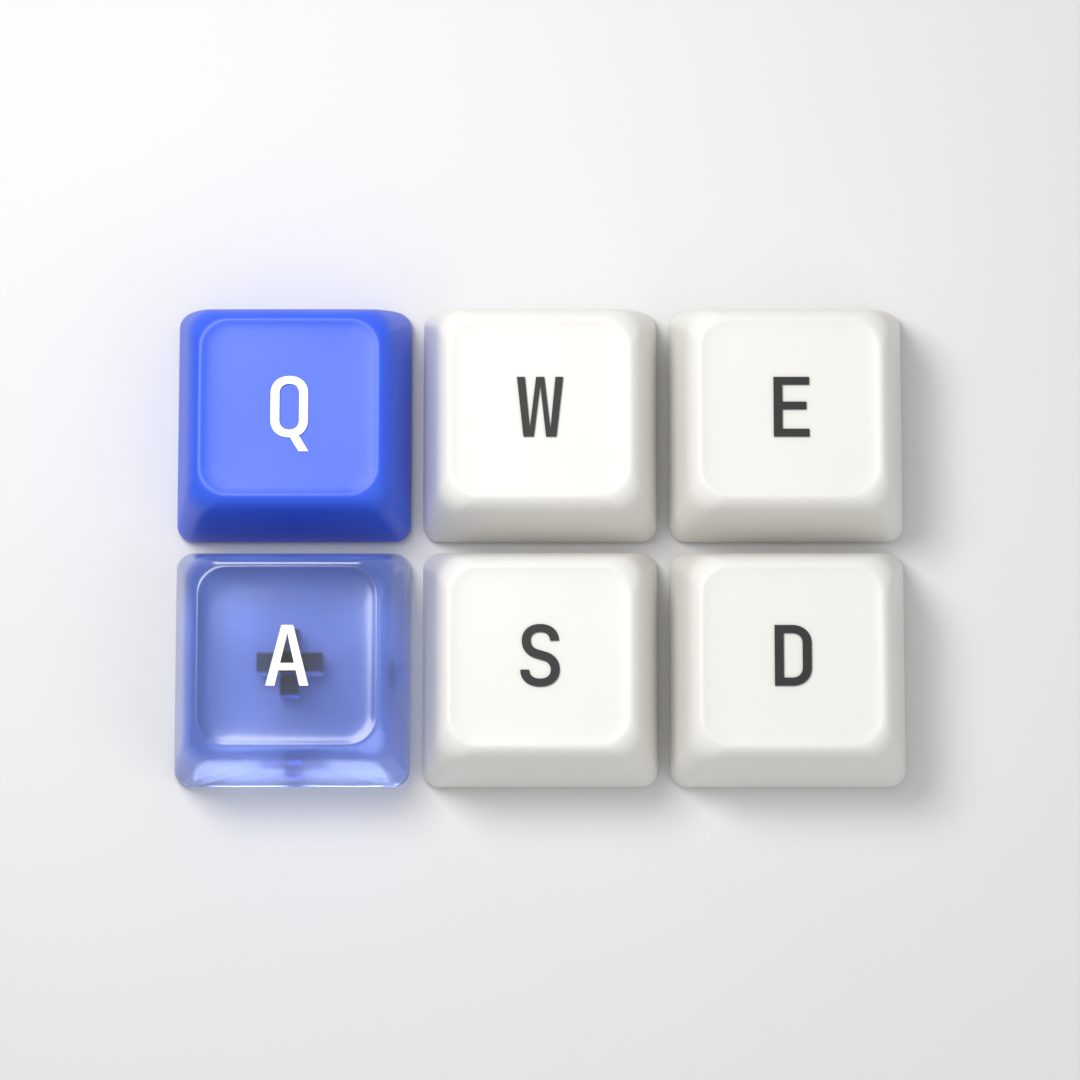
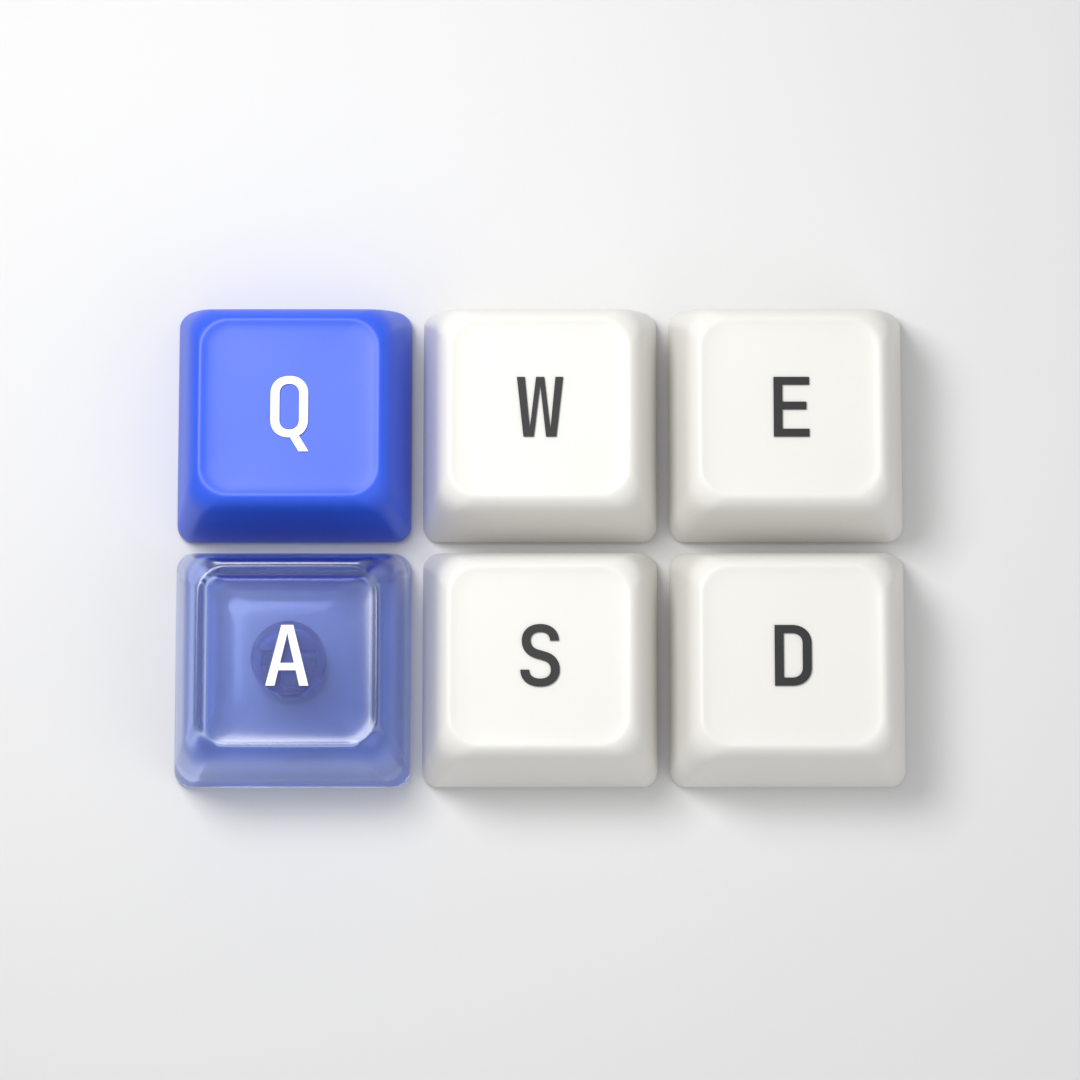
Teclas huecas con encastre MX real por dentro
Las teclas pasan a ser cáscaras huecas como las reales (pared de 1.4 mm
y techo de 1.7 mm a escala de una tecla de 18 mm). Del techo cuelga el
barril del encastre MX: cilindro de 5.6 mm con agujero en cruz de
4.1 × 1.2 mm, que termina apenas arriba del borde. Reemplaza la cruz
maciza anterior, que no era fiel.

Claude-Session: https://claude.ai/code/session_0121m7YK9CXNaJS4Mb2Yre8x

Changed region(s): [[0.1528, 0.4889, 0.3972, 0.7333]]

diff --git a/teclas/teclas.py b/teclas/teclas.py
@@ -95,29 +95,53 @@ def anillo_redondeado(medio, radio, z, por_esquina=10):
     return pts
 
 
+# Medidas reales de una tecla MX (1u ≈ 18 mm de base): 1 mm ≈ 0.0556 unidades
+MM = TECLA / 18.0
+PARED = 1.4 * MM          # espesor de las paredes laterales
+TECHO = 1.7 * MM          # espesor del techo (debajo del plato)
+
+
 def tecla(nombre):
-    """Tecla de perfil bajo: paredes en talud, borde redondeado y un plato arriba, apenas
-    hundido, con un escalón suave (como la referencia)."""
+    """Tecla de perfil bajo, hueca como una tecla real: paredes en talud, borde redondeado
+    y un plato arriba, apenas hundido, con un escalón suave (como la referencia)."""
     m = TECLA / 2
     h = ALTO
-    # (z, medio lado, radio de esquina) de abajo hacia arriba
-    perfil = [
+    # superficie de afuera: (z, medio lado, radio de esquina) de abajo hacia arriba
+    afuera = [
         (0.0, m, 0.07), (0.03, m, 0.07), (0.08, m * 0.995, 0.08),
         (h * 0.70, m * 0.90, 0.10), (h * 0.88, m * 0.86, 0.11), (h * 0.96, m * 0.81, 0.12),
         (h, m * 0.76, 0.13),                       # borde de arriba
         (h * 0.985, m * 0.72, 0.11),               # escalón hacia el plato
         (h * 0.975, m * 0.64, 0.10), (h * 0.97, m * 0.3, 0.10),
     ]
+    # superficie de adentro: la pared copia el talud con PARED de espesor y cierra en un
+    # techo plano TECHO por debajo del plato
+    techo = h * 0.97 - TECHO
+    adentro = [
+        (techo, m * 0.3, 0.06), (techo, m * 0.70 - PARED, 0.07),
+        (techo - 0.6 * MM, m * 0.80 - PARED, 0.08),   # el techo se redondea contra la pared
+        (h * 0.70, m * 0.90 - PARED, 0.10 - PARED * 0.5),
+        (0.08, m * 0.995 - PARED, 0.08 - PARED * 0.5), (0.0, m - PARED, 0.07 - PARED * 0.5),
+    ]
     bm = bmesh.new()
-    anillos = [[bm.verts.new(p) for p in anillo_redondeado(lado, r, z)] for z, lado, r in perfil]
+    anillos = [[bm.verts.new(p) for p in anillo_redondeado(lado, r, z)]
+               for z, lado, r in afuera + adentro]
     n = len(anillos[0])
-    for a, b in zip(anillos, anillos[1:]):
+    i_tope = len(afuera) - 1   # último anillo de afuera (centro del plato)
+    i_techo = len(afuera)      # primer anillo de adentro (centro del techo)
+    for i, (a, b) in enumerate(zip(anillos, anillos[1:])):
+        if i == i_tope:  # el plato y el techo son superficies distintas: no se unen
+            continue
         for k in range(n):
             bm.faces.new((a[k], a[(k + 1) % n], b[(k + 1) % n], b[k]))
-    centro = bm.verts.new((0, 0, h * 0.968))
+    centro_afuera = bm.verts.new((0, 0, h * 0.968))
+    centro_adentro = bm.verts.new((0, 0, techo))
     for k in range(n):
-        bm.faces.new((anillos[-1][k], anillos[-1][(k + 1) % n], centro))
-    bm.faces.new(list(reversed(anillos[0])))  # base cerrada
+        bm.faces.new((anillos[i_tope][k], anillos[i_tope][(k + 1) % n], centro_afuera))
+        bm.faces.new((anillos[i_techo][(k + 1) % n], anillos[i_techo][k], centro_adentro))
+    # el borde de abajo: el labio entre la pared de afuera y la de adentro
+    for k in range(n):
+        bm.faces.new((anillos[0][(k + 1) % n], anillos[0][k], anillos[-1][k], anillos[-1][(k + 1) % n]))
     bmesh.ops.recalc_face_normals(bm, faces=bm.faces[:])
     me = bpy.data.meshes.new(nombre)
     bm.to_mesh(me)
@@ -132,18 +156,44 @@ def tecla(nombre):
 
 
 def vastago(x, y, mat):
-    """Cruz del vástago (stem) debajo de la tecla, que se ve a través del plástico."""
-    for nombre, (sx, sy) in (("Vastago X", (0.28, 0.08)), ("Vastago Y", (0.08, 0.28))):
-        bm = bmesh.new()
-        bmesh.ops.create_cube(bm, size=1.0)
-        bmesh.ops.scale(bm, vec=(sx, sy, ALTO * 0.4), verts=bm.verts)
-        me = bpy.data.meshes.new(nombre)
-        bm.to_mesh(me)
-        bm.free()
-        me.materials.append(mat)
-        ob = bpy.data.objects.new(nombre, me)
-        bpy.context.scene.collection.objects.link(ob)
-        ob.location = (x, y, ALTO * 0.2)  # bajo: no se cruza con la letra
+    """El encastre MX que cuelga del techo por dentro de la tecla: un barril redondo de
+    5.6 mm con el agujero en cruz de 4.1 × 1.2 mm, que termina apenas arriba del borde."""
+    curva = bpy.data.curves.new("Vastago", type="CURVE")
+    curva.dimensions = "2D"
+    curva.fill_mode = "BOTH"
+    radio = 2.8 * MM
+    lado, brazo = 4.1 * MM / 2, 1.2 * MM / 2
+    circulo = [(radio * math.cos(2 * math.pi * k / 48), radio * math.sin(2 * math.pi * k / 48))
+               for k in range(48)]
+    cruz = [(brazo, lado), (-brazo, lado), (-brazo, brazo), (-lado, brazo), (-lado, -brazo),
+            (-brazo, -brazo), (-brazo, -lado), (brazo, -lado), (brazo, -brazo), (lado, -brazo),
+            (lado, brazo), (brazo, brazo)]
+    for puntos in (circulo, cruz):
+        sp = curva.splines.new("POLY")
+        sp.points.add(len(puntos) - 1)
+        for p, (px, py) in zip(sp.points, puntos):
+            p.co = (px, py, 0, 1)
+        sp.use_cyclic_u = True
+    techo = ALTO * 0.97 - TECHO
+    abajo = 0.6 * MM
+    curva.extrude = (techo - abajo) / 2 + 0.002  # se mete apenas en el techo: sin rendija
+    ob = bpy.data.objects.new("Vastago", curva)
+    bpy.context.scene.collection.objects.link(ob)
+    deps = bpy.context.evaluated_depsgraph_get()
+    me = bpy.data.meshes.new_from_object(ob.evaluated_get(deps))
+    bpy.data.objects.remove(ob, do_unlink=True)
+    bpy.data.curves.remove(curva)
+    bm = bmesh.new()
+    bm.from_mesh(me)
+    bmesh.ops.remove_doubles(bm, verts=bm.verts, dist=1e-5)  # tapas y paredes en una pieza
+    bm.to_mesh(me)
+    bm.free()
+    me.materials.clear()
+    me.materials.append(mat)
+    ob = bpy.data.objects.new("Vastago", me)
+    bpy.context.scene.collection.objects.link(ob)
+    ob.location = (x, y, (techo + abajo) / 2)
+    return ob
 
 
 def letra(caracter, nombre):
